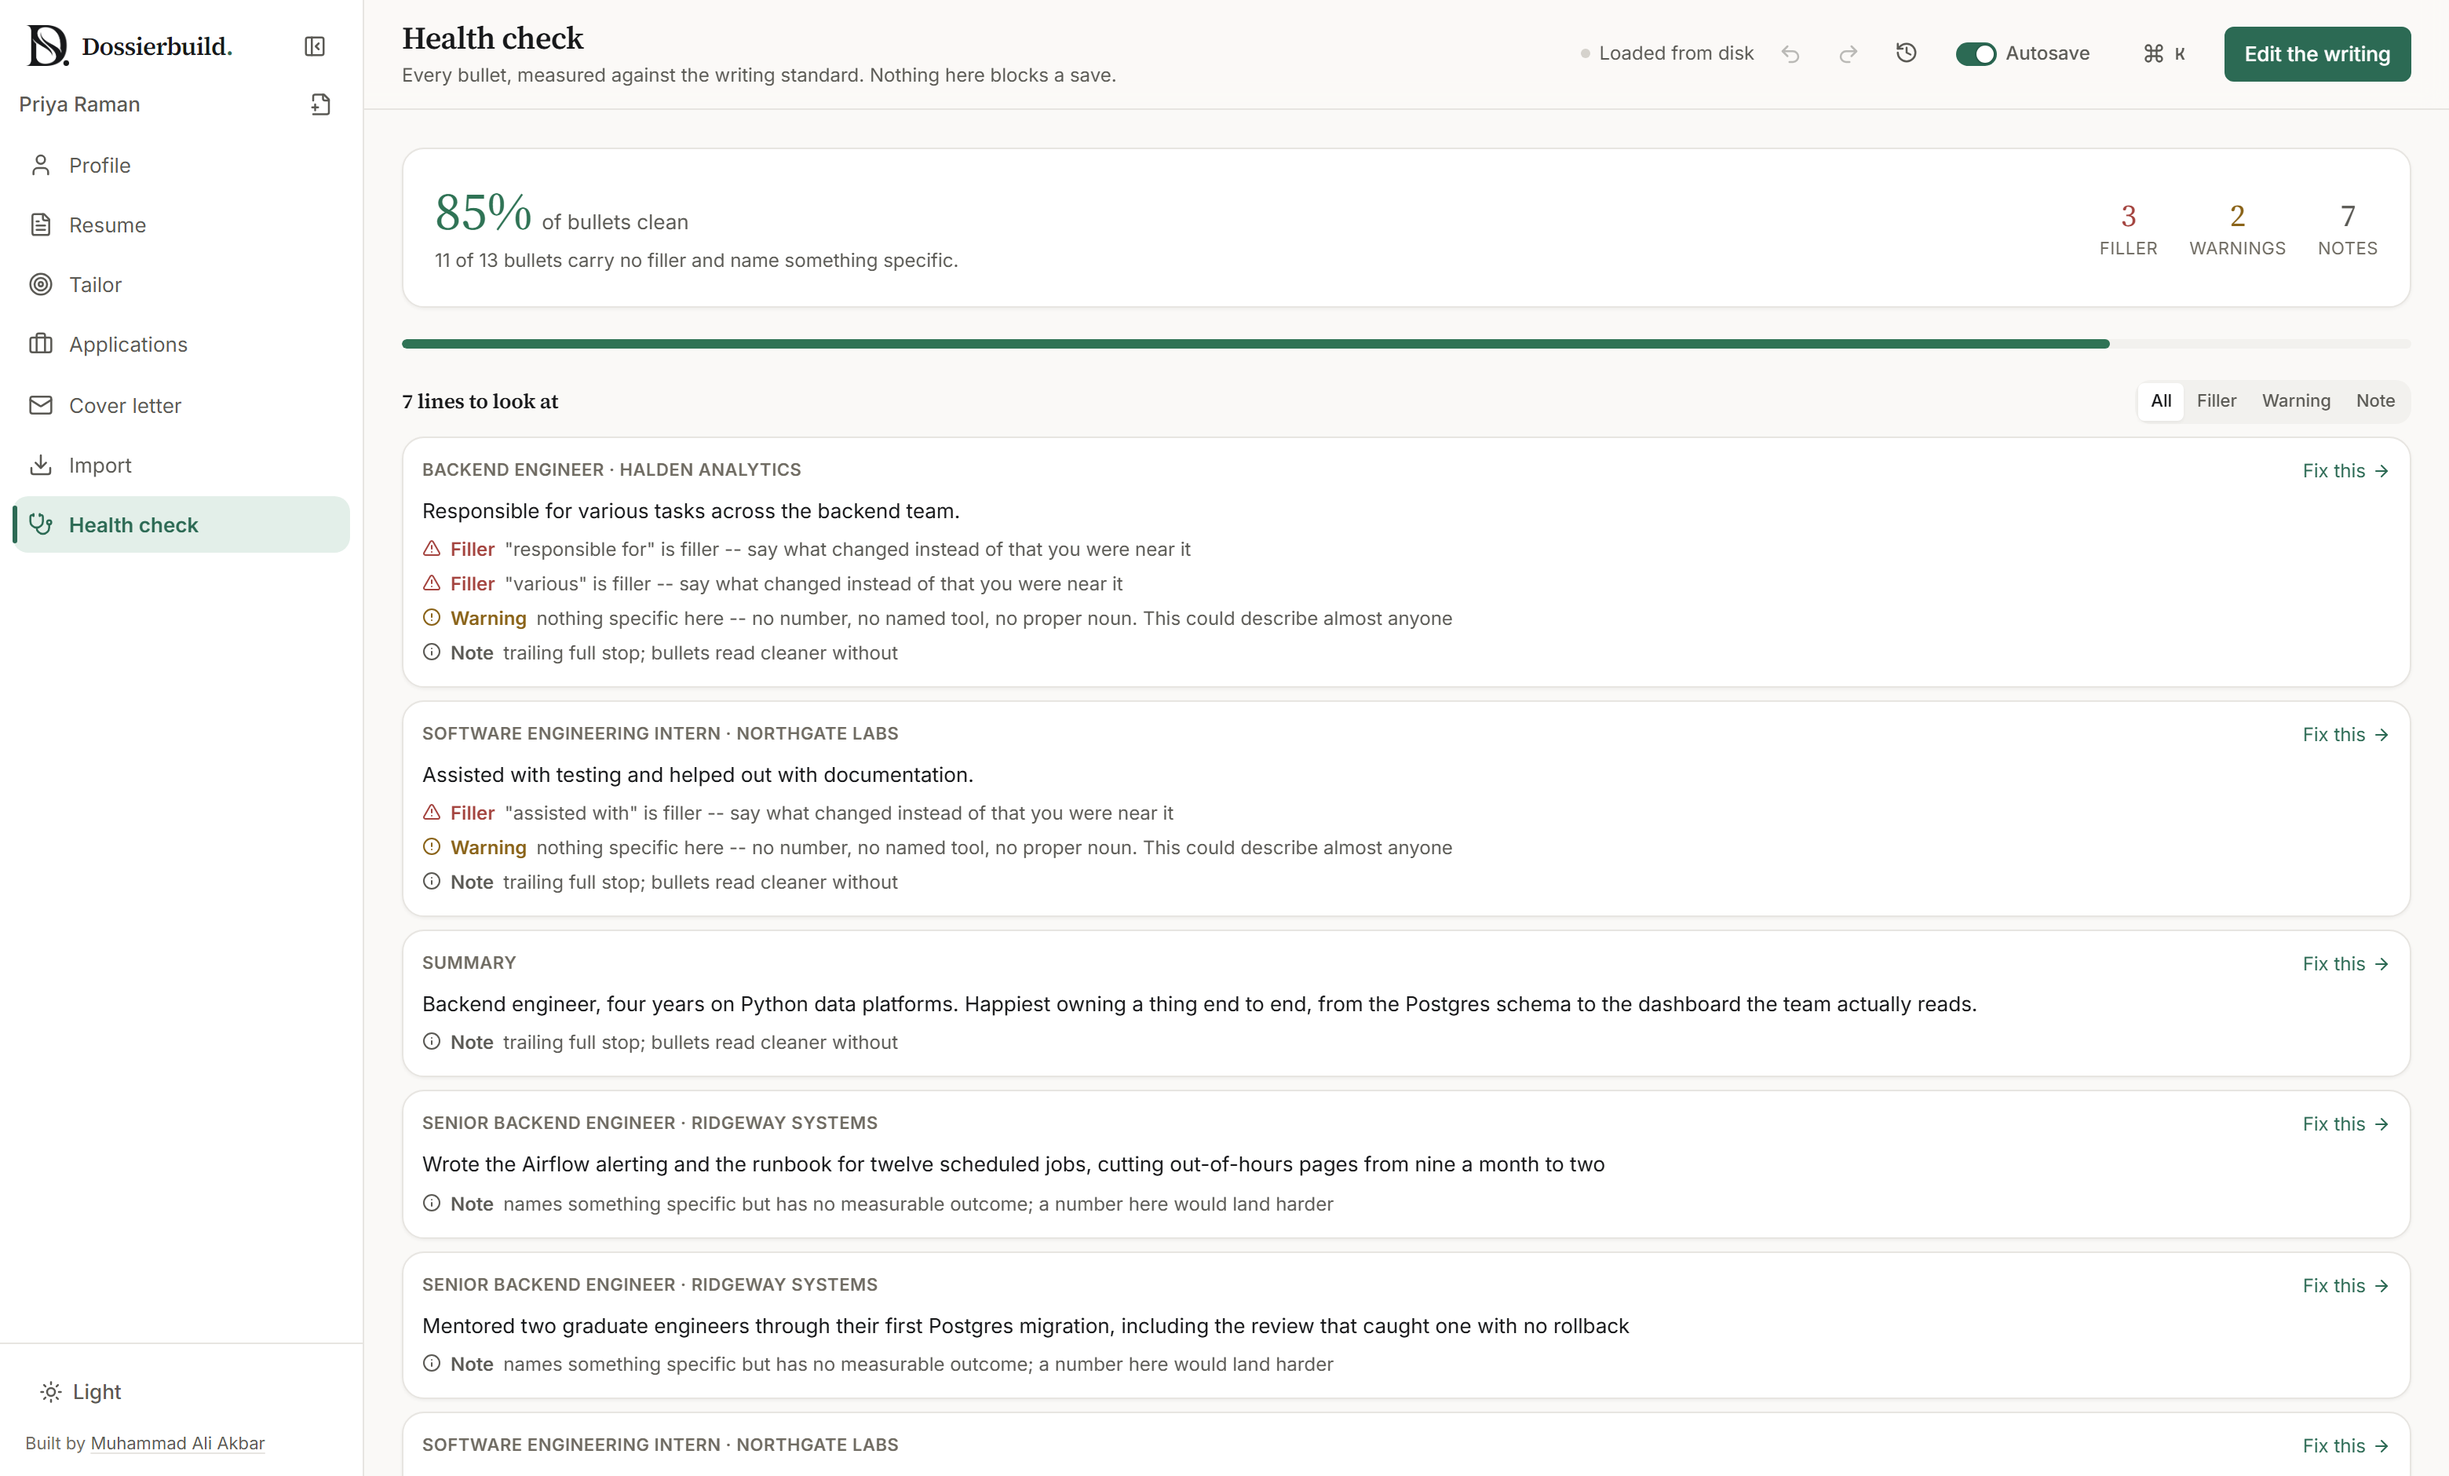
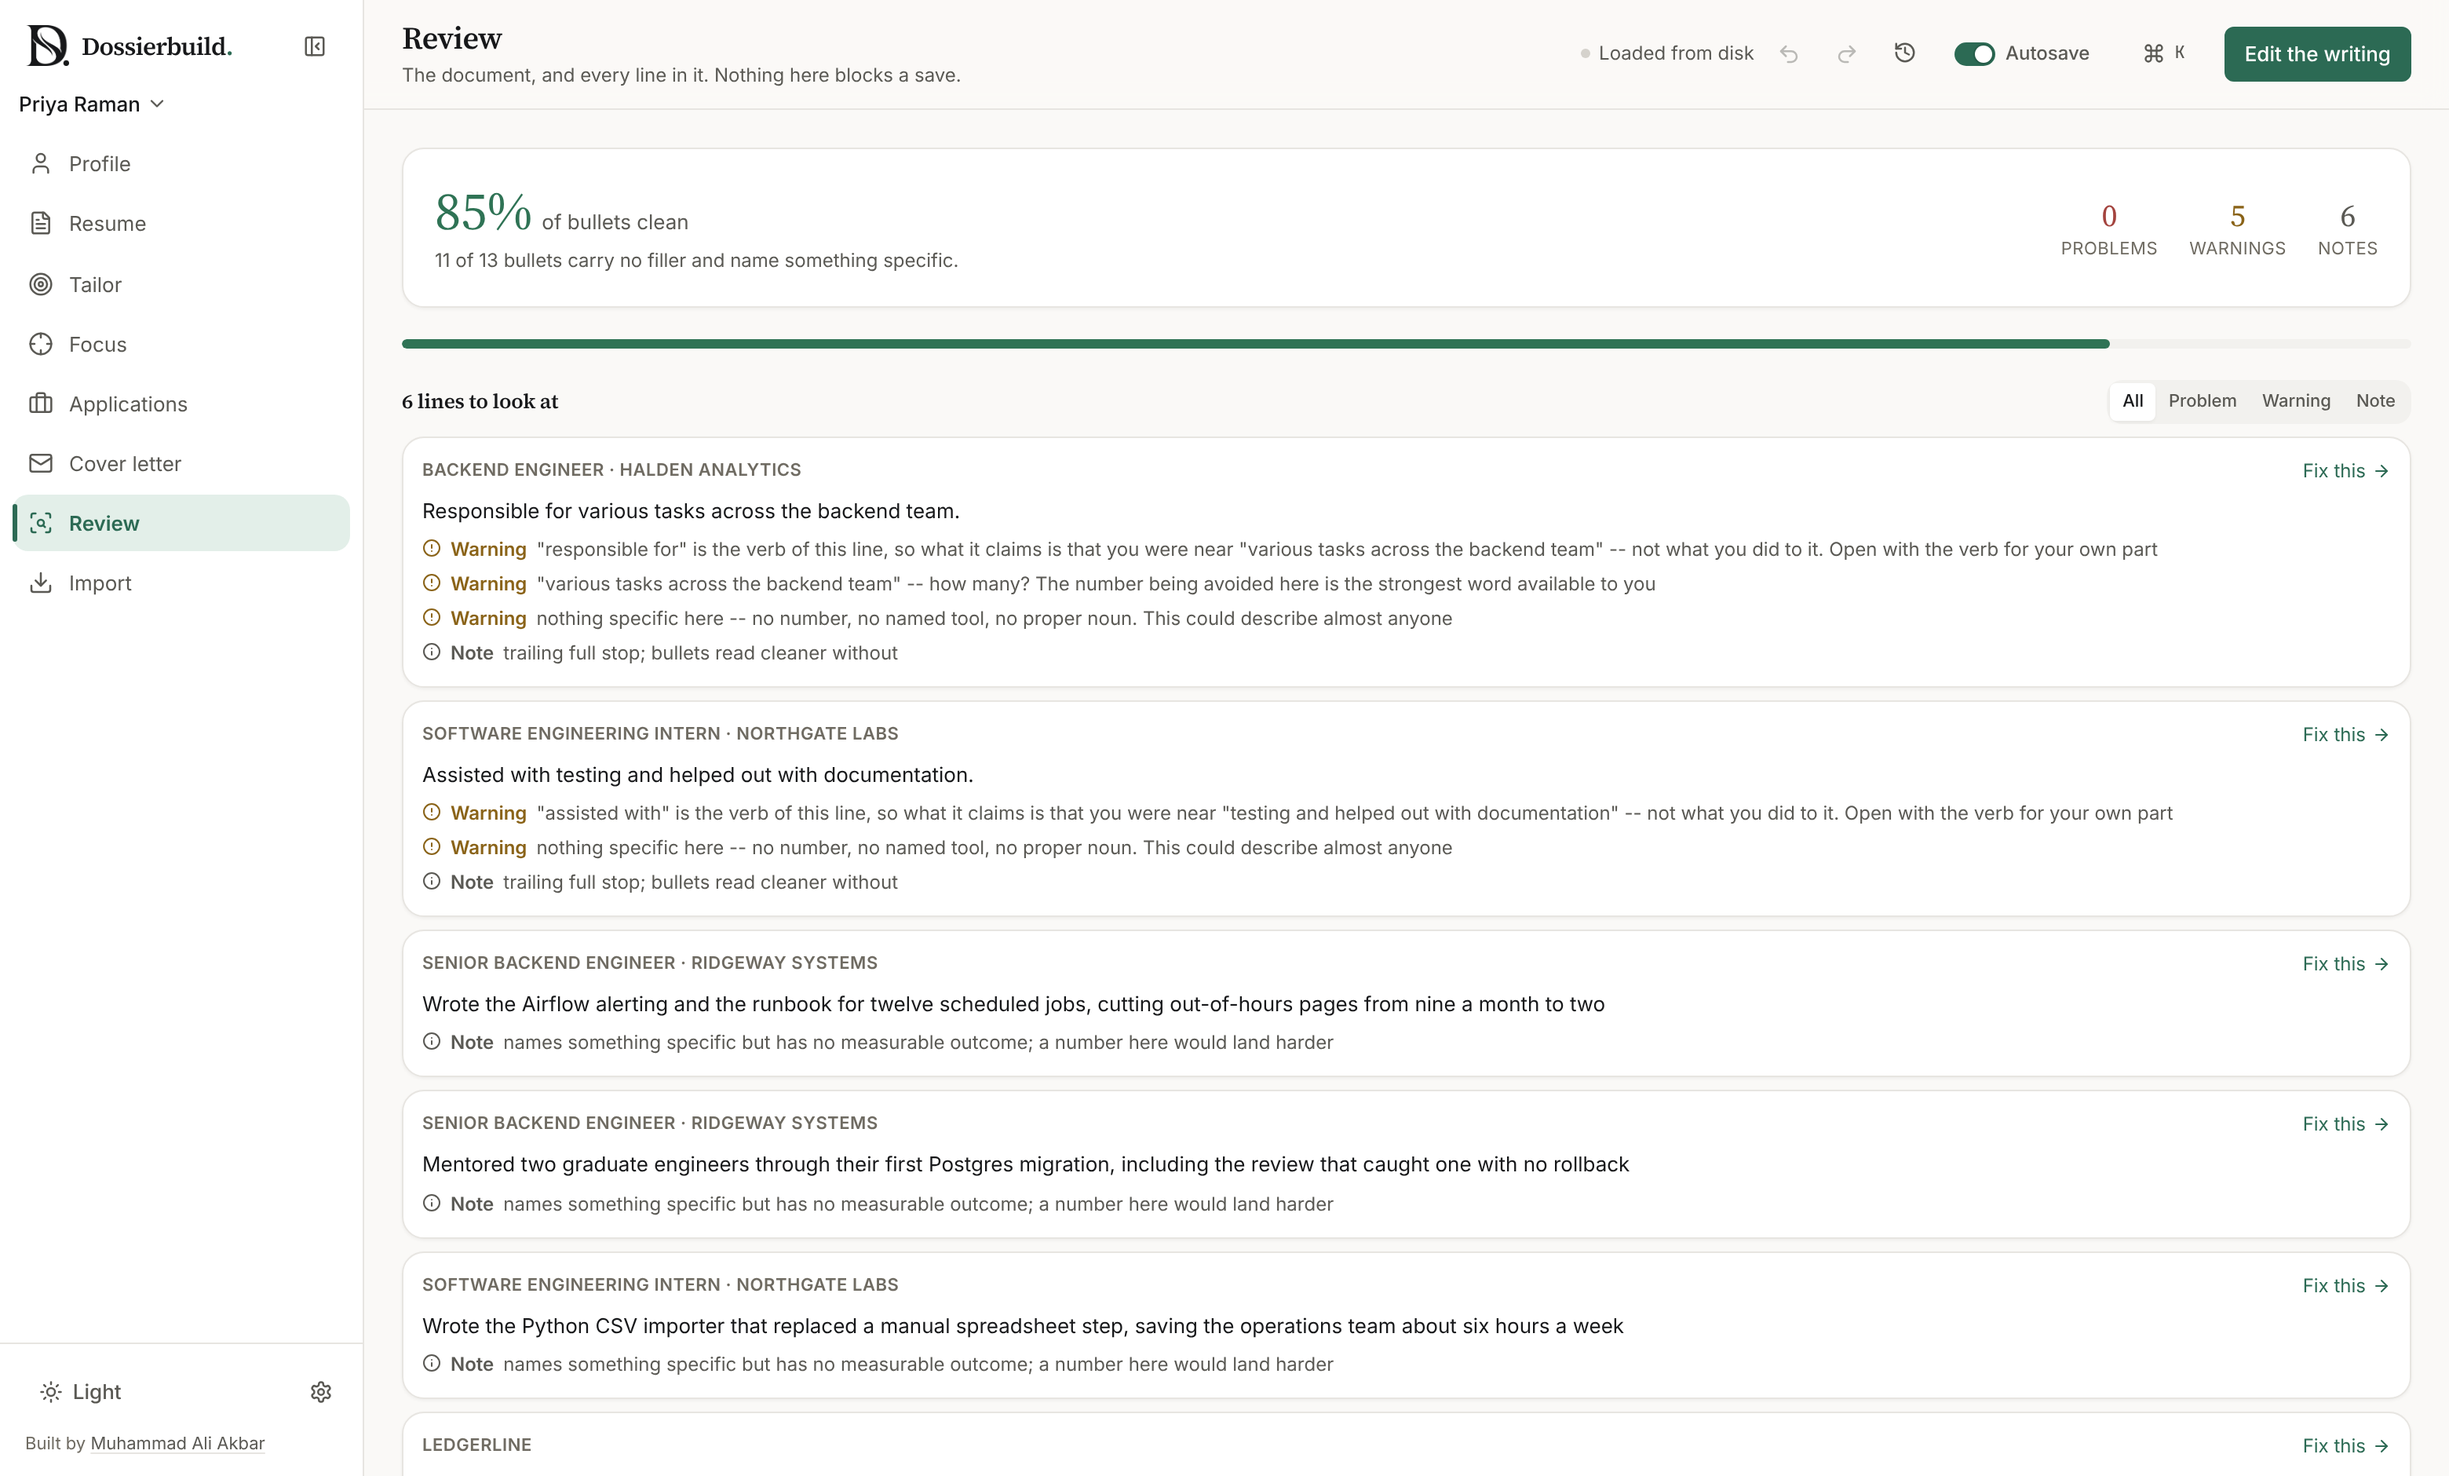
The README describes the app as it is now
It still said Version 2.0, listed "Gemini only" under limitations while
Settings offers Claude, and named editing on the page and a provider
interface as things to build next, both shipped. It called Review the Health
screen and offered five type sizes where there is now a range.

The check counts are the ones that run today (414 pytest, 32 web, and 22 for
check_phase1 and check_import). A Docker one-liner sits at the top, under a
demo GIF made from the site's video, and the three screenshots are retaken
from the current app with the sample profile.

Claude-Session: https://claude.ai/code/session_01HZjtXh5pD9tv9ZEsvQALws

diff --git a/README.md b/README.md
@@ -12,10 +12,9 @@ and the two things that would be most tempting to hand a model — reading a job
 posting, and scoring your writing — are done by rules instead, so they work
 with no API key at all.
 
-**Version 2.0** — edit the resume on the resume itself, sections the app has
-no name for, bold/italic/underline, per-CV design, ten templates, and a Review
-screen that reads the document rather than one line at a time. See
-[CHANGELOG.md](CHANGELOG.md) for what changed and why.
+You edit the resume on the resume itself, in any of ten templates, and the AI
+steps run on Gemini or Claude, whichever you choose, through the same check.
+What changed in each release, and why, is in [CHANGELOG.md](CHANGELOG.md).
 
 > **This repository contains no one's resume.** `data/` and `.env` are ignored
 > by git — deny-by-default, not a list of filenames — so a clone starts empty
@@ -23,7 +22,15 @@ screen that reads the document rather than one line at a time. See
 > Your profile, portrait, saved versions, API key and database never leave
 > your own machine.
 
-![The Resume screen: ten templates, and a preview that is the printed document](docs/resume.png)
+![A 26-second tour: the Resume screen, a posting pasted into Tailor and read by rules, the entries that answer it, and Review reading the whole document](docs/demo.gif)
+
+**Try it** with Docker, then open <http://localhost:8000>:
+
+```bash
+docker run -d --name dossierbuild -p 127.0.0.1:8000:8000 -v dossierbuild:/data ghcr.io/aliakbarkhan21/dossierbuild
+```
+
+Other ways to run it, and how to add an AI key, are under [Running it](#running-it).
 
 ---
 
@@ -70,7 +77,7 @@ sheet inside Applications rather than a screen of its own.)
 | | |
 | --- | --- |
 | **Profile** | Every role, project, degree, skill, certification, honour and achievement. Drag or arrow-key to reorder entries, sections and bullets. Autosaves, with a timestamped backup on every write. |
-| **Resume** | Pick a look, watch the page, print it. The preview is the printed document, not an approximation of it. |
+| **Resume** | Pick a look, watch the page, print it. Type straight onto the page to edit it. The preview is the printed document, not an approximation of it. |
 | **Tailor** | Paste a posting. It is read by rules — no model — into weighted requirements, then scored against your profile. Only the rewrite step uses a model, and every rewrite is diffed against its source. |
 | **Applications** | Every posting you saved, what stage it is at, and — across all of them — which requirements you keep failing to evidence. |
 | **Import** | LinkedIn's data export, a PDF, a DOCX, or pasted text, all landing on the same review screen. |
@@ -80,11 +87,13 @@ sheet inside Applications rather than a screen of its own.)
 
 **Design, curated rather than open-ended.** Ten templates × four body
 layouts, six accent colours, nine type pairings, six paper sizes, three margin
-widths, three line spacings, five type sizes, two date formats, and per-resume
-section order and visibility. Six named looks apply four coherent
+widths, three line spacings, a type size from 88% to 115%, two date formats,
+and per-resume section order and visibility. Six named looks apply four coherent
 combinations each — twenty-four designs in two clicks. There is no colour
 picker, because the difference between a good resume and a bad one was never
 the particular blue.
+
+![The Resume screen: ten templates, and a preview that is the printed document](docs/resume.png)
 
 **More than one CV, when one genuinely will not do.** One master profile is
 still the default, and focus tags are still the right answer to "the same
@@ -122,12 +131,38 @@ without a second profile to keep in step.
 
 **Nothing to type on the first run.** An empty profile offers three ways out —
 import one, load a worked sample, or start clean. The sample is written to the
-standard the app teaches and scores 85% on the Health screen, with two
+standard the app teaches and scores 85% on the Review screen, with two
 deliberately weak bullets so the check has something real to catch.
 
 ---
 
 ## Running it
+
+### With Docker
+
+Nothing else to install: the image carries Python, Chromium and the built
+interface, for x86 and for 64-bit ARM (Apple Silicon, or a Raspberry Pi on a
+64-bit OS).
+
+```bash
+docker run -d --name dossierbuild -p 127.0.0.1:8000:8000 -v dossierbuild:/data ghcr.io/aliakbarkhan21/dossierbuild
+```
+
+Then open <http://localhost:8000>. The profile, the database and any key you
+save in Settings live in the `dossierbuild` volume rather than the container,
+so upgrading is a pull and a fresh container:
+
+```bash
+docker pull ghcr.io/aliakbarkhan21/dossierbuild
+docker rm -f dossierbuild
+docker run -d --name dossierbuild -p 127.0.0.1:8000:8000 -v dossierbuild:/data ghcr.io/aliakbarkhan21/dossierbuild
+```
+
+The port is bound to `127.0.0.1` because there is no login: anyone who can
+reach it can read the profile. `latest` follows `main`, and each version tag
+is also published as its own image tag (`2.4.0`, `2.4`) for pinning.
+
+### From source
 
 ```bash
 pip install -r requirements.txt
@@ -151,37 +186,45 @@ While working on the frontend, run Vite instead for hot reload:
 cd web && npm run dev      # 5173, proxying /api to 8000
 ```
 
-A Gemini key is optional and buys three things: parsing an imported resume,
+### An AI key, if you want one
+
+A key is optional and buys three things: parsing an imported resume,
 rewriting bullets for a posting, and drafting a single line on request.
 Everything else — the posting analysis, the coverage score, the writing
 standard, every template, the PDF — works without one.
 
+Gemini is the default and Claude is the alternative; every rewrite goes
+through the same check against your profile, whichever answers. Pick one and
+paste its key on the Settings screen, or set it in `.env`:
+
 ```bash
-cp .env.example .env      # then paste your key into it
+cp .env.example .env      # GEMINI_API_KEY, or DOSSIER_AI_PROVIDER=claude and ANTHROPIC_API_KEY
 ```
 
-Get a free key at [aistudio.google.com/apikey](https://aistudio.google.com/apikey).
+A Gemini key is free at [aistudio.google.com/apikey](https://aistudio.google.com/apikey);
+a Claude key comes from [platform.claude.com](https://platform.claude.com). In
+Docker, Settings is the easy route, or pass the same variables with `-e`.
 
-### In a container
+### Building the image yourself
 
 ```bash
 docker build -t dossierbuild .
-docker run -p 8000:8000 -v "$PWD/data:/data" -e GEMINI_API_KEY=... dossierbuild
+docker run -p 127.0.0.1:8000:8000 -v "$PWD/data:/data" dossierbuild
 ```
 
 ### Checks
 
 ```bash
 pip install -r requirements-dev.txt
-pytest                            # 213 checks, about 90 seconds (real PDFs)
-cd web && npm test                # 25 checks on the undo stack and the API client
+pytest                            # 414 checks, about a minute (real PDFs)
+cd web && npm test                # 32 checks on the undo stack and the API client
 ```
 
 Or without pytest — each script runs on the app's own dependencies:
 
 ```bash
-python scripts/check_phase1.py    # schema, storage, id stability, migration   (20)
-python scripts/check_import.py    # LinkedIn export, extraction, merge         (21)
+python scripts/check_phase1.py    # schema, storage, id stability, migration   (22)
+python scripts/check_import.py    # LinkedIn export, extraction, merge         (22)
 python scripts/check_phase2.py    # design, templates, PDF and its text layer  (20)
 python scripts/check_db.py        # the schema, its constraints, its queries   (19)
 python scripts/check_tailor.py    # the posting reader and the audit           (29)
@@ -210,7 +253,9 @@ dossier/
     cvs.py           more than one CV in one data directory
   ingest/    PDF · DOCX · LinkedIn -> profile, plus the merge review. No AI.
   ai/        every call that leaves this machine for a model
-    client.py        the key, the model fallback ladder, the retry budget
+    provider.py      which provider answers, Gemini or Claude, behind one call
+    client.py        Gemini: the key, the model fallback ladder, the retry budget
+    claude.py        Claude: the key and the call, behind the same interface
     parse.py         resume text -> profile. Transcribes, never composes.
     tailor.py        profile + posting -> rewrites keyed by block id, each audited
     suggest.py       one drafted bullet or summary, from facts you supply
@@ -293,9 +338,9 @@ Privacy → Get a copy of your data**. Upload that ZIP. Parsing is
 deterministic, so nothing is guessed at.
 
 **Resume file.** PDF, DOCX or text. Extraction is exact; structuring the
-result uses Gemini, told to transcribe rather than rewrite. The extracted text
-is shown before parsing, so an extraction failure stays distinguishable from a
-parsing failure.
+result uses the model you chose, told to transcribe rather than rewrite. The
+extracted text is shown before parsing, so an extraction failure stays
+distinguishable from a parsing failure.
 
 **Paste text.** For when a PDF will not extract cleanly.
 
@@ -314,7 +359,8 @@ a claim that it does everything.
 - **No DOCX export.** PDF, self-contained HTML, and plain text.
 - **Single user, local only.** No auth, no multi-device sync. Your data lives
   in `data/` on your machine and is gitignored by default.
-- **Gemini only.** The model ladder in `ai/client.py` is Gemini-specific.
+- **Hosted models only.** The AI steps run on Gemini or Claude, so the text
+  you send them leaves your machine. Nothing runs them on a local model yet.
 - **The fabrication audit is a diff, not a fact-checker.** It catches numbers
   and named technologies a rewrite introduced. It cannot tell you that a claim
   already in your profile is untrue.
@@ -324,20 +370,16 @@ a claim that it does everything.
 ## What I would build next
 
 Not a promise, and not a list of things I ran out of time for — these are the
-four I would pick up first, and why.
+three I would pick up first, and why.
 
-- **Editing in the preview.** Rendered blocks already carry `data-block-id`,
-  which is what the Health screen's jump-to-bullet uses, so the mapping from a
-  node back to a fact already exists. The invariant that makes it hard is the
-  one worth keeping: the printed document must not change by a pixel.
 - **A snippet library.** The same three sentences get retyped across
   applications. They belong in a table, the way saved versions are.
 - **Bulk actions on bullets.** Multi-select, then delete, move to another
   entry, or improve as a batch. Today every bullet is handled one at a time.
-- **Beyond Gemini.** The ladder in `ai/client.py` is Gemini-specific, and the
-  three prompts behind it are not. An interface over the call would let this
-  run against a local model, which suits an app whose whole argument is that
-  your history stays on your machine.
+- **A local model.** `ai/provider.py` already puts every AI step behind one
+  call, which is how Claude arrived beside Gemini. A model running on your own
+  machine is one more provider behind it, and it suits an app whose whole
+  argument is that your history stays on your machine.
 
 ---
 
